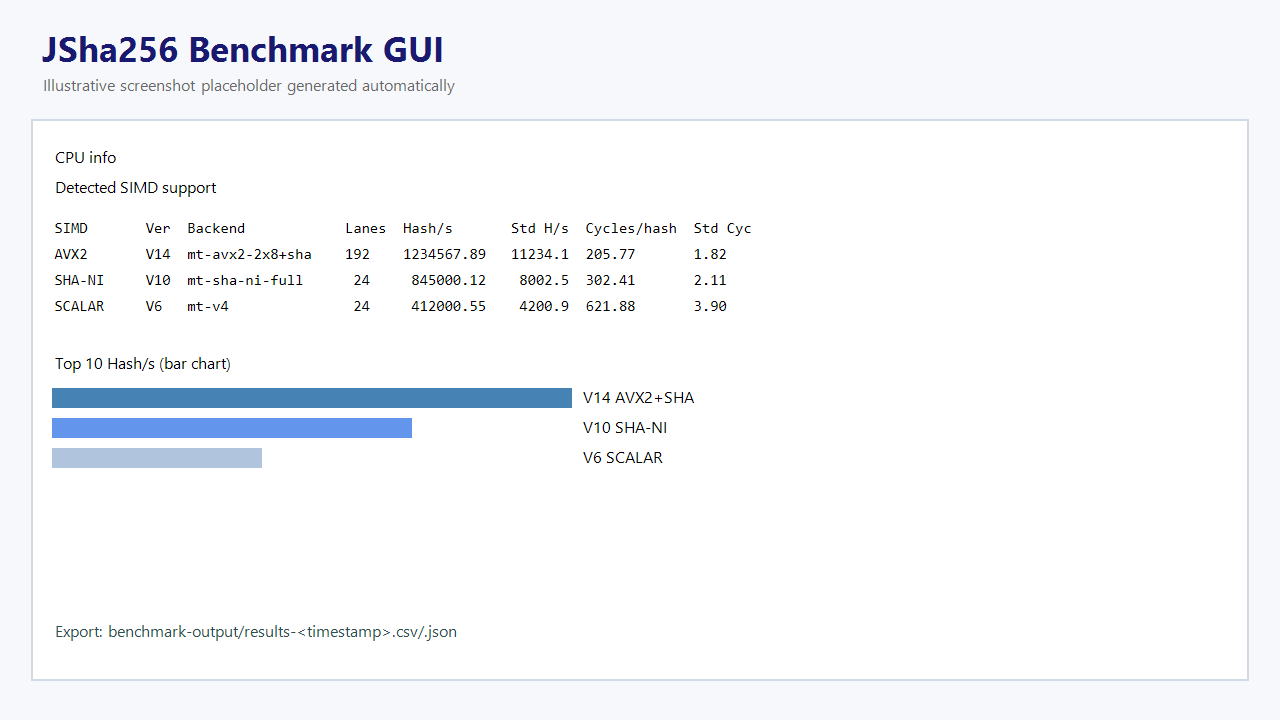
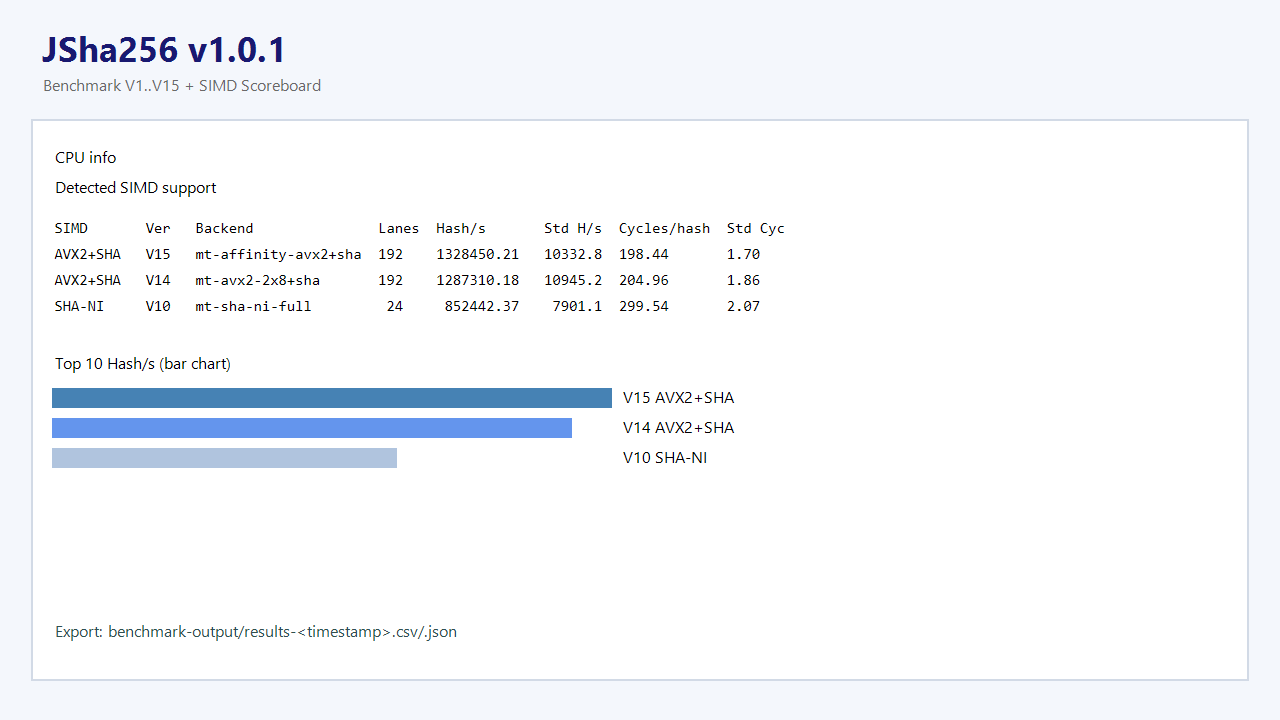
release(v1.0.1): add notes and refresh README screenshot
- add RELEASE_NOTES_v1.0.1.md for GitHub release publication

- update docs/screenshot-main-window.png to v1.0.1 visuals (V1..V15, V15 row)

- rebuild executable and verify --selftest passes

diff --git a/RELEASE_NOTES_v1.0.1.md b/RELEASE_NOTES_v1.0.1.md
@@ -1,0 +1,30 @@
+# JSha256 v1.0.1
+
+Release focused on further CPU tuning and roadmap expansion.
+
+## Highlights
+
+- Added `V15` CPU benchmark path:
+  - multi-threaded
+  - thread-affinity pinned workers
+  - AVX2 dual-batch processing
+  - SHA-NI tail integration
+- Updated app/version labeling to `v1.0.1`.
+- Updated GUI range to `V1..V15`.
+- Added `ROADMAP_GPU.md` with staged `G1..G6` plan.
+
+## Validation
+
+Local Windows validation completed:
+
+- Build: PASS
+- `--selftest`: PASS
+
+## Included Asset
+
+- `btc_sha_bench_gui.exe`
+
+## Notes
+
+- This project is for benchmarking/education and is not a production miner.
+- `.exe` is intentionally versioned in branch.
